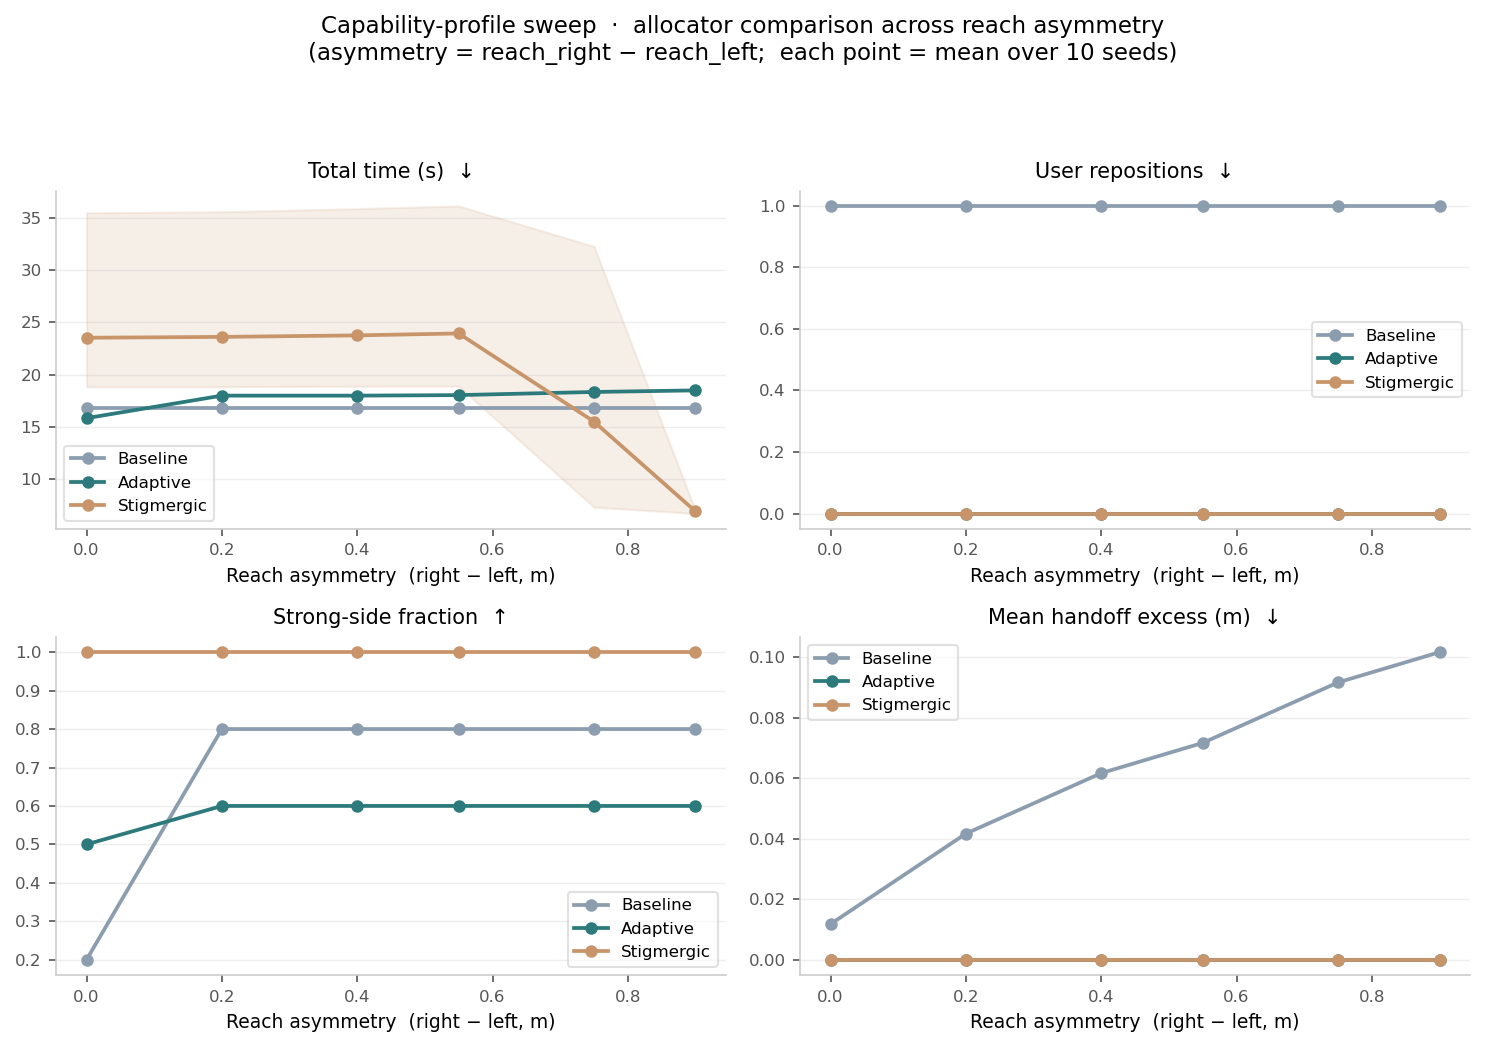
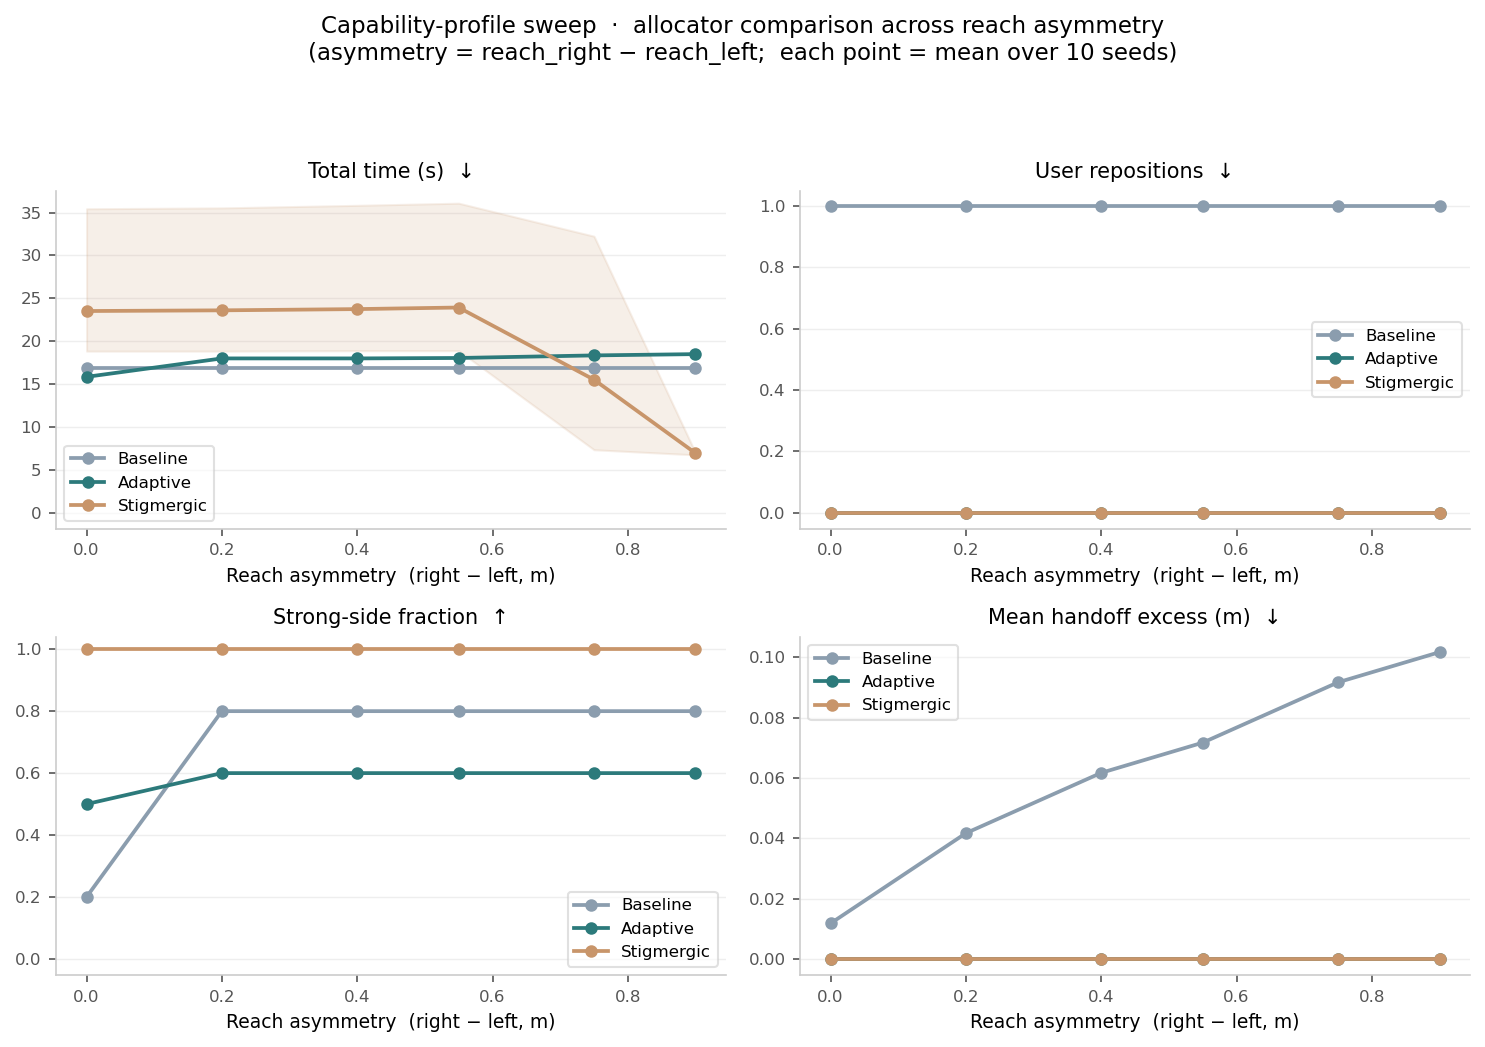
change on the graphs

diff --git a/plot_results.py b/plot_results.py
@@ -137,11 +137,18 @@ def plot_sweep_chart(rows, save_path="sweep_chart.png"):
     One line per allocator.  Each point is the mean across seeds for that profile.
     """
     metrics_def = [
-        ("total_time",           "Total time (s)",        "↓"),
-        ("repositions",          "User repositions",      "↓"),
-        ("strong_side_fraction", "Strong-side fraction",  "↑"),
-        ("mean_handoff_excess",  "Mean handoff excess (m)", "↓"),
+        ("total_time",           "Total time (s)",          "↓",  None,   None),
+        ("repositions",          "User repositions",        "↓",  0.03,  -0.10),
+        ("strong_side_fraction", "Strong-side fraction",    "↑",  None,   None),
+        ("mean_handoff_excess",  "Mean handoff excess (m)", "↓",  0.003, -0.01),
     ]
+
+    ALLOC_STYLE = {
+        "baseline":   dict(linestyle="-",  marker="o", label="Baseline (solid)"),
+        "adaptive":   dict(linestyle="--", marker="s", label="Adaptive (dashed)"),
+        "stigmergic": dict(linestyle=":",  marker="^", label="Stigmergic (dotted)"),
+    }
+    ZERO_OFFSET = {"baseline": 0, "adaptive": 1, "stigmergic": 2}
 
     profile_asym = {}
     for r in rows:
@@ -158,7 +165,9 @@ def plot_sweep_chart(rows, save_path="sweep_chart.png"):
         fontsize=11, y=0.99,
     )
 
-    for ax, (metric, title, direction) in zip(axes.flat, metrics_def):
+    for ax, (metric, title, direction, eps, ylim_bottom) in zip(axes.flat, metrics_def):
+        zero_panel = eps is not None
+
         for alloc in ["baseline", "adaptive", "stigmergic"]:
             y_means, y_mins, y_maxs = [], [], []
             for profile in profiles_sorted:
@@ -172,13 +181,31 @@ def plot_sweep_chart(rows, save_path="sweep_chart.png"):
                     y_mins.append(float("nan"))
                     y_maxs.append(float("nan"))
 
-            color = ALLOCATOR_COLORS[alloc]
-            label = ALLOCATOR_LABELS[alloc]
-            ax.plot(x_vals, y_means, "o-", color=color, label=label,
-                    linewidth=1.8, markersize=5)
+            plot_y = y_means
+            if zero_panel and all(v == 0.0 for v in y_means if not np.isnan(v)):
+                offset = -eps * ZERO_OFFSET[alloc]
+                plot_y = [v + offset if not np.isnan(v) else v for v in y_means]
+
+            color  = ALLOCATOR_COLORS[alloc]
+            style  = ALLOC_STYLE[alloc]
+            ax.plot(x_vals, plot_y,
+                    linestyle=style["linestyle"],
+                    marker=style["marker"],
+                    color=color,
+                    label=style["label"],
+                    linewidth=2.0,
+                    markersize=7)
             if alloc == "stigmergic":
-                ax.fill_between(x_vals, y_mins, y_maxs,
-                                color=color, alpha=0.15)
+                ax.fill_between(x_vals, y_mins, y_maxs, color=color, alpha=0.15)
+
+        if zero_panel:
+            ax.set_ylim(bottom=ylim_bottom)
+            ax.axhline(0, color="#999", linewidth=0.8, linestyle="--", zorder=1)
+            ax.annotate(
+                "Adaptive & Stigmergic = 0 across all profiles",
+                xy=(0.55, 0.12), xycoords="axes fraction",
+                fontsize=9, color="#555555", style="italic",
+            )
 
         ax.set_xlabel("Reach asymmetry  (right − left, m)", fontsize=9)
         ax.set_title(f"{title}  {direction}", fontsize=10)